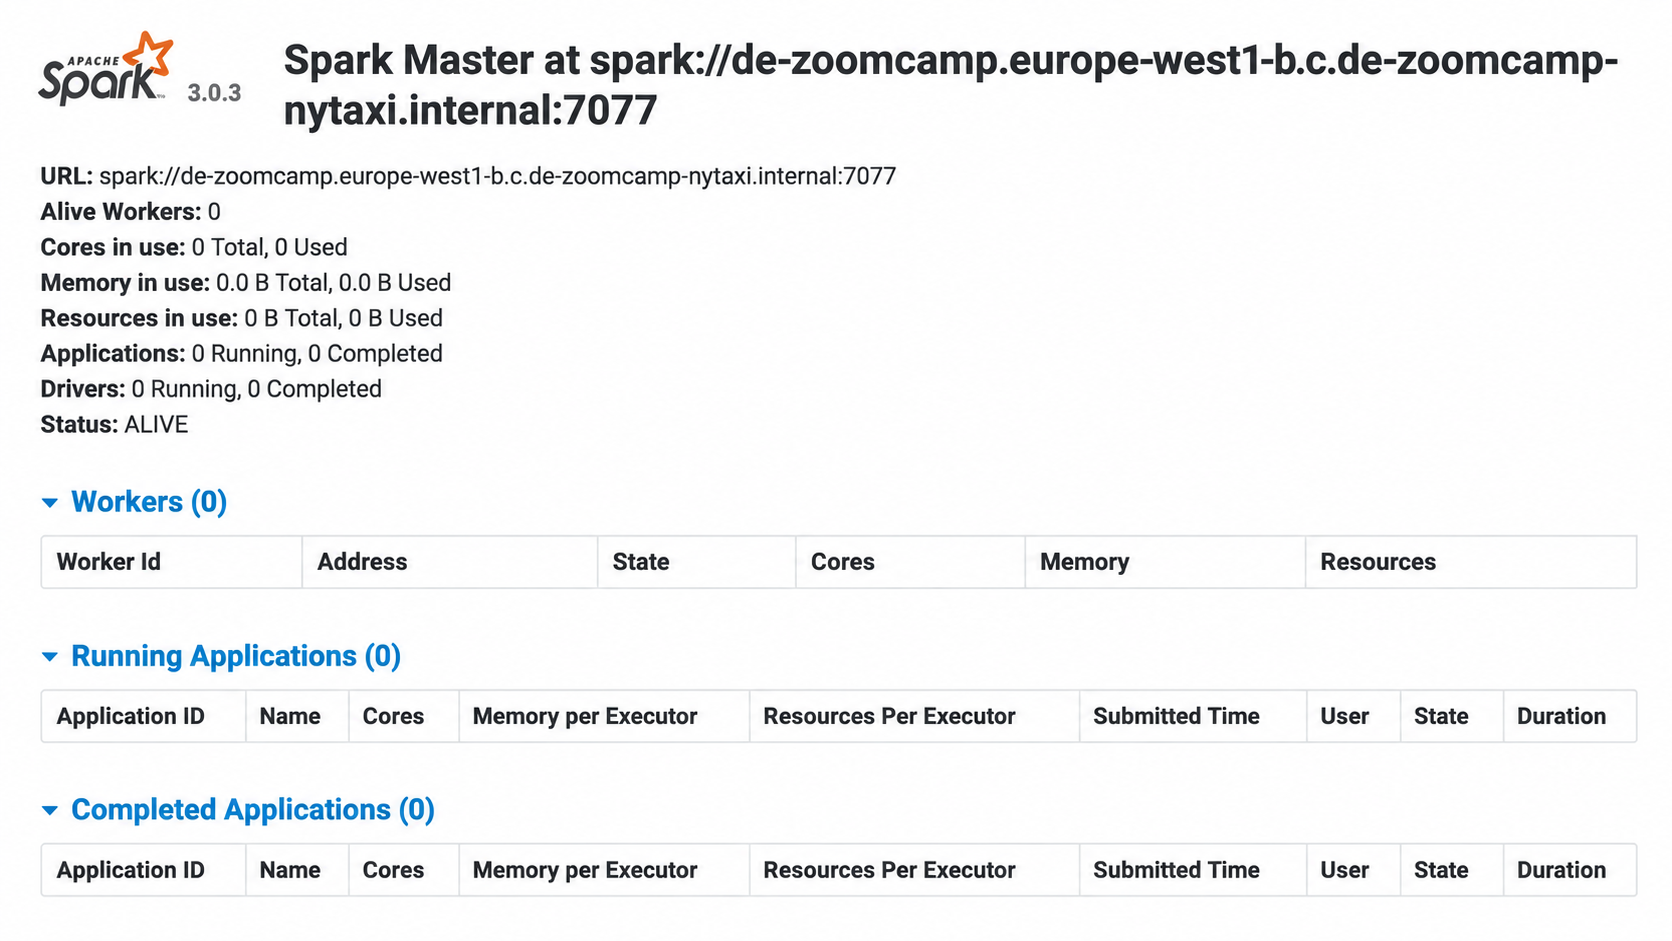
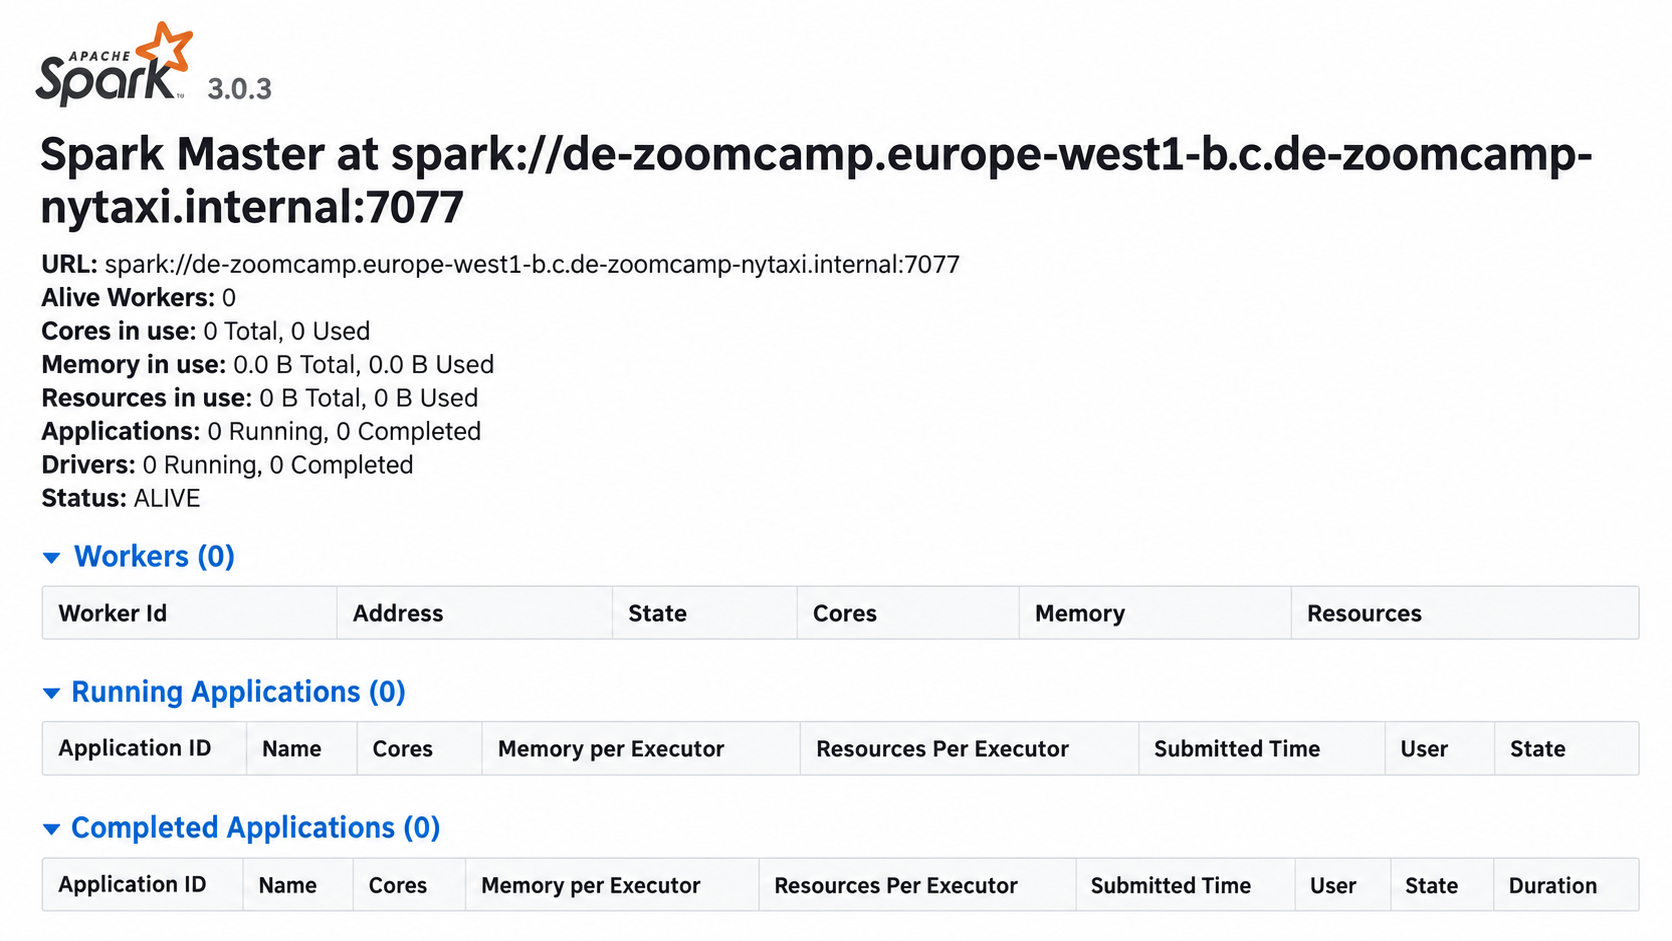
Regenerate Spark master UI with imagegen

diff --git a/cohorts/2027/06-batch/2026-09-09-follow-up-provenance.md b/cohorts/2027/06-batch/2026-09-09-follow-up-provenance.md
@@ -19,6 +19,12 @@ preserved.
 |---|---|---|---|---|---|
[1 lines of base64/hex data omitted]
 
+## Spark master UI — no workers
+
+| Published target | Original JPG SHA-256 | Bounded crop SHA-256 | Published output SHA-256 | Imagegen output | Validation |
+|---|---|---|---|---|---|
[1 lines of base64/hex data omitted]
+
 ## BigQuery connector traceback — removed
 
 | Former published target | Original JPG SHA-256 | Bounded crop SHA-256 | Former output SHA-256 | Decision |
